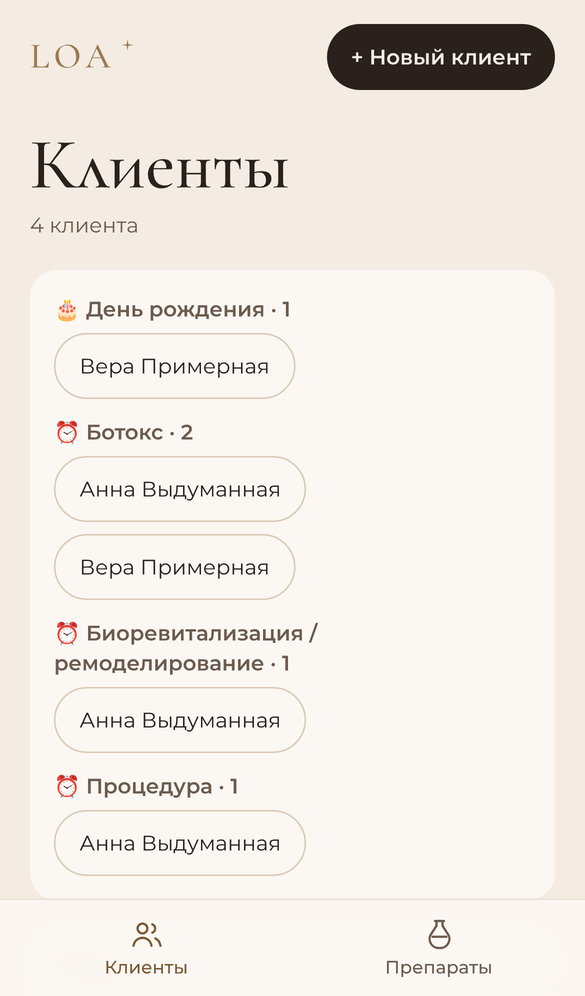
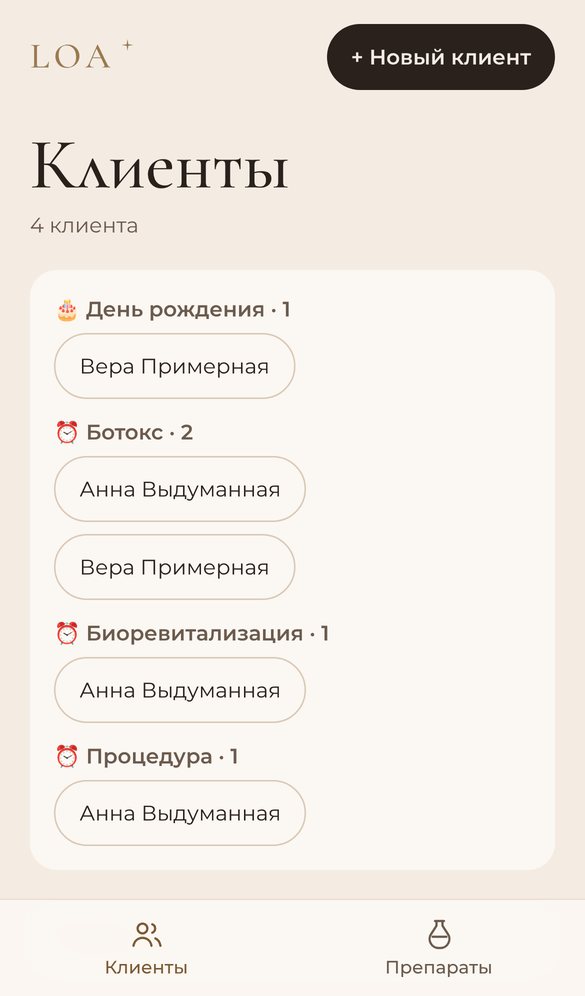
N7 ✏: tilpasset den godkjente brukerhistorien
- korte navn for standardtypene (reminders.short: Ботокс, Филлеры,
  Биоревитализация, Биорепарация, Мезотерапия, Экзосомы, Пилинг, Чистка, PRP,
  Коллагеностимуляция), egne typer med eget navn, «Процедура» uten preparater
- raden i listen uendret («⏰ Пора на процедуру») – typene bare øverst
- kortet: «⏰ <behandling>» og «с <dato>» per påminnelse, hver med egen «Готово»
- roadmap og brukerhistorier med teksten som ble godkjent 05.11.2026

Claude-Session: https://claude.ai/code/session_01HwV16RJ8YLdHMtQXiDegRK

Changed region(s): [[0.0923, 0.6536, 0.5231, 0.8715], [0.5231, 0.6225, 0.5846, 0.6536]]

diff --git a/src/app/components/reminderType.test.ts b/src/app/components/reminderType.test.ts
@@ -1,19 +1,34 @@
 import { describe, expect, it } from "vitest";
-import { reminderTypeLabel, reminderTypesText } from "./reminderType";
+import ru from "../../../messages/ru.json";
+import uk from "../../../messages/uk.json";
+import pl from "../../../messages/pl.json";
+import en from "../../../messages/en.json";
+import { reminderTypeLabel, reminderTypesText, shortTypeCodes } from "./reminderType";
 
-const t = (key: "botox" | "procedure") => ({ botox: "Ботокс", procedure: "Процедура" })[key];
+const short = ru.reminders.short as Record<string, string>;
+const t = (key: string) => (key === "procedure" ? "Процедура" : short[key.replace("short.", "")]);
 const botox = { id: "t1", code: "BT-01", name: { ru: "Ботулинотерапия" } };
-const bio = { id: "t3", code: "BT-03", name: { ru: "Биоревитализация / ремоделирование", pl: "Biorewitalizacja / remodelowanie" } };
+const bio = { id: "t3", code: "BT-03", name: { ru: "Биоревитализация / ремоделирование" } };
+const own = { id: "t9", code: null, name: { ru: "Авторская маска", pl: "Maska autorska" } };
 
-describe("N7 ✏: название процедуры в «⏰ Пора»", () => {
-  it("N7 ✏: «Ботокс» for botulinum therapy, the type's name otherwise, «Процедура» without preparations", () => {
+describe("N7 ✏: короткие названия процедур в «⏰ Пора»", () => {
+  it("N7 ✏: short names for the standard types, the own name for own types, «Процедура» without preparations", () => {
     expect(reminderTypeLabel(t, botox, "ru")).toBe("Ботокс");
-    expect(reminderTypeLabel(t, bio, "pl")).toBe("Biorewitalizacja / remodelowanie");
+    expect(reminderTypeLabel(t, bio, "ru")).toBe("Биоревитализация");
+    expect(reminderTypeLabel(t, own, "pl")).toBe("Maska autorska");
     expect(reminderTypeLabel(t, null, "ru")).toBe("Процедура");
   });
 
-  it("N7 ✏: the row names every procedure that is due, each once", () => {
+  it("N7 ✏: the approved Russian short names, and every language has all ten", () => {
+    expect(shortTypeCodes.map((c) => short[c])).toEqual([
+      "Ботокс", "Филлеры", "Биоревитализация", "Биорепарация", "Мезотерапия", "Экзосомы", "Пилинг", "Чистка", "PRP", "Коллагеностимуляция",
+    ]);
+    for (const m of [uk, pl, en]) expect(Object.keys(m.reminders.short).sort()).toEqual([...shortTypeCodes].sort());
+  });
+
+  it("N7 ✏: a reminder's procedures, each once", () => {
     const r = (types: (typeof botox)[]) => ({ visitId: "v", remindOn: "2026-11-01", types });
-    expect(reminderTypesText(t, [r([botox, bio]), r([botox]), r([])], "ru")).toBe("Ботокс, Биоревитализация / ремоделирование, Процедура");
+    expect(reminderTypesText(t, [r([botox, bio, botox])], "ru")).toBe("Ботокс, Биоревитализация");
+    expect(reminderTypesText(t, [r([])], "ru")).toBe("Процедура");
   });
 });

diff --git a/src/app/(app)/clients/ClientList.tsx b/src/app/(app)/clients/ClientList.tsx
@@ -8,7 +8,7 @@ import { elapsedText } from "@/app/components/elapsed";
 import { card, pill, ui } from "@/app/components/ui";
 import { thumbUrl } from "@/logic/rules/thumbnails";
 import { dueByType } from "@/logic/rules/reminders";
-import { reminderTypeLabel, reminderTypesText } from "@/app/components/reminderType";
+import { reminderTypeLabel } from "@/app/components/reminderType";
 import type { Locale } from "@/config/locales";
 import { directions, type Direction } from "@/logic/course";
 import { matchesFilter, toggleFilter } from "@/logic/rules/courses";
@@ -28,7 +28,7 @@ export function ClientList({ clients, pictureUrls = {} }: { clients: ClientSumma
     .filter((g) => g.clients.length > 0);
   // N7 ✏: «⏰ Ботокс · 2», «⏰ Биоревитализация · 1» – reminders that have come, by procedure type, until «Готово».
   const due = dueByType(clients);
-  const rt = (key: "botox" | "procedure") => t(`reminders.${key}`);
+  const rt = (key: string) => t(`reminders.${key}`);
   // BD1: birthdays today.
   const birthdays = clients.filter((c) => c.birthday);
 
@@ -136,9 +136,8 @@ export function ClientList({ clients, pictureUrls = {} }: { clients: ClientSumma
                 {/* BD1: birthday today. */}
                 {c.birthday && <span className="text-sm font-semibold text-ink">{t("birthday.row")}</span>}
                 {/* N7: time for the next procedure. */}
-                {c.dueReminders.length > 0 && (
-                  <span className="text-sm font-semibold text-ink">{t("reminders.dueRow", { types: reminderTypesText(rt, c.dueReminders, locale) })}</span>
-                )}
+                {/* N7: the row stays as before – the procedures are in the summary at the top. */}
+                {c.dueReminders.length > 0 && <span className="text-sm font-semibold text-ink">{t("reminders.dueRow")}</span>}
                 {/* VP2: the next appointment. */}
                 {c.nextVisitDate && (
                   <span className="text-sm font-medium text-accent">{t("clients.nextVisit", { date: formatDayMonth(c.nextVisitDate) })}</span>

diff --git a/src/app/components/reminderType.ts b/src/app/components/reminderType.ts
@@ -1,18 +1,21 @@
 import type { Locale } from "@/config/locales";
 import { localized } from "@/logic/rules/catalog-settings";
-import { botoxTypeCode } from "@/logic/rules/botox";
 import type { OpenReminder, ReminderType } from "@/logic/rules/reminders";
 import { uniqueTypes } from "@/logic/rules/reminders";
 
-type Translate = (key: "botox" | "procedure") => string;
+/** N7 ✏: short names for the standard types (approved 05.11.2026) – «Ботокс», «Биоревитализация», «Пилинг»… */
+export const shortTypeCodes = ["BT-01", "BT-02", "BT-03", "BT-04", "BT-05", "BT-06", "BT-07", "BT-08", "BT-09", "BT-10"] as const;
 
-/** N7 ✏: «Ботокс» (Loya's word for BT-01), otherwise the type's name; «Процедура» when the visit had no preparations. */
+type Translate = (key: string) => string;
+
+/** N7 ✏: the short name of a standard type, the doctor's own name for her own types, «Процедура» without preparations. */
 export function reminderTypeLabel(t: Translate, type: ReminderType | null, locale: Locale): string {
   if (!type) return t("procedure");
-  return type.code === botoxTypeCode ? t("botox") : localized(type.name, locale) || t("procedure");
+  if (type.code && (shortTypeCodes as readonly string[]).includes(type.code)) return t(`short.${type.code}`);
+  return localized(type.name, locale) || t("procedure");
 }
 
-/** N7 ✏: «Ботокс, Биоревитализация / ремоделирование» – the types of the reminders that have come. */
+/** N7 ✏: «Ботокс, Биоревитализация» – the procedures of the given reminders, each once. */
 export function reminderTypesText(t: Translate, reminders: readonly OpenReminder[], locale: Locale): string {
   const labels = uniqueTypes(reminders.flatMap((r) => r.types)).map((x) => reminderTypeLabel(t, x, locale));
   // A visit without preparations is «Процедура» – listed after the named types.

diff --git a/src/app/(app)/clients/[id]/ClientCardView.tsx b/src/app/(app)/clients/[id]/ClientCardView.tsx
@@ -345,7 +345,7 @@ export async function ClientCardView(props: Props) {
                 <p className="text-base font-semibold text-ink">
                   {t("reminders.due", { types: reminderTypesText((key) => t(`reminders.${key}`), [r], locale as Locale) })}
                 </p>
-                <p className="text-sm text-muted">{t("reminders.dueSince", { date: formatIsoDate(r.remindOn) })}</p>
+                <p className="text-sm text-muted">{t("reminders.since", { date: formatIsoDate(r.remindOn) })}</p>
               </div>
               <ReminderDone clientId={id} visitId={r.visitId} />
             </div>

diff --git a/CLAUDE.md b/CLAUDE.md
@@ -91,7 +91,7 @@ Regler:
 - `visits.face_scheme` – jsonb `{template: 'front-photo-v1'|'front', strokes: [{color: 'dark'|'red'|'blue', width, points: [[x,y], …]}]}`, koordinater 0–1 i forhold til malens bilde/boks (Z5, migrering `20261101000000_face_scheme.sql`). `front-photo-v1` = realistisk ansikt (2:3), brukes for alle nye skjemaer; `front` = gammel strektegning (3:4), kun visning; ukjent/manglende ID = `front`. `null` = ingen skjema; et tomt skjema lagres ikke. «Повторить прошлый визит» tar med skjemaet på sin egen mal.
 - `client_photos` – id, `doctor_id`, `client_id`, `course_id` (valgfri: bildet hører til kuren), `taken_on` (opptaksdato), `storage_path`, `created_at` (FK1–FK4; migrering `20261103000000_client_photos.sql`). Filene i `visit-photos` under `<doctor_id>/client-photos/<client_id>/<fil>.jpg`. Radene er med i snapshot, filene ikke.
 - `clients.main_photo_id` – «Главное фото» (FK6, migrering `20261105000000_main_photo.sql`); `null` = initialer. Fremmednøkkel `clients_main_photo_fkey` (`main_photo_id, id` → `client_photos (id, client_id)`, `on delete set null`, `deferrable initially deferred`) – bildet må være klientens eget, og slettes bildet, blir valget tomt. **Embed fra `clients` til `client_photos` må derfor ha hint** (`client_photos!client_photos_client_id_doctor_id_fkey(...)` for alle bildene, `client_photos!clients_main_photo_fkey(...)` for hovedbildet), ellers svarer PostgREST PGRST201.
-- `visits.remind_on` / `visits.reminder_done_at` – «Напомнить через» (N7, migrering `20261106000000_visit_reminder.sql`): dagen «⏰ Пора» begynner (`null` = ingen), og når «Готово» ble trykket (`null` = åpen). **N7 ✏ (Loya 05.11.2026):** påminnelsen viser behandlingstypen fra besøket (`OpenReminder.types`, «Ботокс» for BT-01, ellers typens navn, «Процедура» uten preparater, `reminderTypeLabel`); øverst i listen gruppert per type (`dueByType`), og «Готово» i kortet lukker **én** påminnelse (ett besøk, `markReminderDone`). Endres datoen, åpnes påminnelsen igjen (`keptReminderDone`). «Повторить прошлый визит» tar ikke med påminnelsen. Regler i `src/logic/rules/reminders.ts` (`reminderDate`, `parseReminder`, `reminderChoiceFor`, `reminderStatus`).
+- `visits.remind_on` / `visits.reminder_done_at` – «Напомнить через» (N7, migrering `20261106000000_visit_reminder.sql`): dagen «⏰ Пора» begynner (`null` = ingen), og når «Готово» ble trykket (`null` = åpen). **N7 ✏ (Loya 05.11.2026):** behandlingstypen fra besøket (`OpenReminder.types`) vises **bare øverst i listen** (gruppert per type, `dueByType`) og **i kortet** ved hver «Готово»; raden i listen er uendret. Korte navn for BT-01…BT-10 i `messages/*.json` → `reminders.short` (Ботокс, Филлеры, Биоревитализация …), egne typer med eget navn, «Процедура» uten preparater (`reminderTypeLabel`). «Готово» lukker **én** påminnelse (ett besøk, `markReminderDone`). Endres datoen, åpnes påminnelsen igjen (`keptReminderDone`). «Повторить прошлый визит» tar ikke med påminnelsen. Regler i `src/logic/rules/reminders.ts` (`reminderDate`, `parseReminder`, `reminderChoiceFor`, `reminderStatus`).
 - `visit_items` – id, `doctor_id`, `visit_id`, `preparation_id` (nullable), `preparation_name` og `procedure_type_id` (kopier på besøkstidspunktet, P9), `quantity` (fritekst), `sort_order`
 - `visit_photos` – id, `doctor_id`, `visit_id`, `storage_path`, `sort_order`; maks 3 per besøk (trigger + app). Filene ligger i den private Storage-bøtten `visit-photos` under `<doctor_id>/<visit_id>/<fil>.jpg` (eier + aal2). Filene er **ikke** med i `backup.take_snapshot` – se `docs/BACKUP.md` punkt 8.
 
@@ -183,10 +183,10 @@ Hvert felt: fritekst er alltid tillatt (også «?» for usikkerhet). Hurtigvalg 
 - Felt har radius **14 px**, kort radius **18 px**. Felles klasser i `src/app/components/ui.ts`.
 - Datoer `DD.MM.YYYY`.
 - **Innlogging:** stor «LOA» i gull serif med liten firkantet stjerne over og tynn bue under, «AESTHETIC MEDICINE» med bred bokstavavstand, linje med stjerne, «SCIENCE · BEAUTY · CONFIDENCE» (`BrandHero`). Skjema i kort under.
-- **Klientliste** (som Apple Notater): liten «LOA» øverst til venstre, «+ Новый клиент» til høyre, stor serif-overskrift «Клиенты» med antall under, **søk rett under overskriften**. Nederst «Резервная копия» med «⬇ Скачать архив» (EX1 del 2), over «Удалённые клиенты», språk og «Выйти». Under søket to filterpiller «Косметология» / «Дерматология» (DM1): trykk velger, trykk igjen fjerner, ingen valgt = alle. Over søket: **«🎂 День рождения · N»** (BD1, bare på selve dagen, bare med `birth_date`, `isBirthday`), **«⏰ Ботокс · N»**, «⏰ Биоревитализация … · N» (N7, påminnelser som har kommet, gruppert per behandlingstype) og **«Сегодня · N» / «Завтра · N»** med navnepiller til kortet (N13 delvis, `agendaDay`), bare når det finnes noen. Listen i ett kort; hver rad: rundt bilde av klienten (eller initialer), navn (fet), dato · alder, «💉 Ботокс · 1 мес. 2 нед.» (BO1: tid siden siste gjennomførte besøk med type BT-01, `botoxSince`/`timeSince`), «🎂 День рождения сегодня» (BD1), «⏰ Пора: Ботокс» (N7, typene som har kommet), «Запись: 31.10», «🩺 На лечении · N дн.» / «Курс закончился», utdrag; til høyre landskode, ✨/🩺 og eventuelt rød «Аллергия».
+- **Klientliste** (som Apple Notater): liten «LOA» øverst til venstre, «+ Новый клиент» til høyre, stor serif-overskrift «Клиенты» med antall under, **søk rett under overskriften**. Nederst «Резервная копия» med «⬇ Скачать архив» (EX1 del 2), over «Удалённые клиенты», språk og «Выйти». Under søket to filterpiller «Косметология» / «Дерматология» (DM1): trykk velger, trykk igjen fjerner, ingen valgt = alle. Over søket: **«🎂 День рождения · N»** (BD1, bare på selve dagen, bare med `birth_date`, `isBirthday`), **«⏰ Ботокс · N»**, «⏰ Биоревитализация … · N» (N7, påminnelser som har kommet, gruppert per behandlingstype) og **«Сегодня · N» / «Завтра · N»** med navnepiller til kortet (N13 delvis, `agendaDay`), bare når det finnes noen. Listen i ett kort; hver rad: rundt bilde av klienten (eller initialer), navn (fet), dato · alder, «💉 Ботокс · 1 мес. 2 нед.» (BO1: tid siden siste gjennomførte besøk med type BT-01, `botoxSince`/`timeSince`), «🎂 День рождения сегодня» (BD1), «⏰ Пора на процедуру» (N7), «Запись: 31.10», «🩺 На лечении · N дн.» / «Курс закончился», utdrag; til høyre landskode, ✨/🩺 og eventuelt rød «Аллергия».
 - **Препараты** (katalogen, URL `/catalog`): liten «LOA» og «+ Препарат» øverst, serif-overskrift «Препараты», søk i preparater, typene i ett kort.
 - **Klientkort – rekkefølge** (Loya 26.10.2026: «план процедур и визиты должны быть первыми»):
-  1. **Toppen:** liten «КАРТА КЛИЕНТА» over navnet (serif), under: alder · første besøk, «🎂 Сегодня день рождения · N лет» (BD1, bare på dagen), «💉 Ботокс · …» (BO1), landskode + land, by, telefon med «Позвонить», «WhatsApp», «Telegram», «Viber» (KT1). **Allergivarsel (AL2)** rett under, avrundet boks med varseltrekant. **«⏰ Пора: <type>»** (N7) per påminnelse som har kommet, hver med egen «Готово»; ellers «⏰ Напомнить: <dato>» øverst.
+  1. **Toppen:** liten «КАРТА КЛИЕНТА» over navnet (serif), under: alder · første besøk, «🎂 Сегодня день рождения · N лет» (BD1, bare på dagen), «💉 Ботокс · …» (BO1), landskode + land, by, telefon med «Позвонить», «WhatsApp», «Telegram», «Viber» (KT1). **Allergivarsel (AL2)** rett under, avrundet boks med varseltrekant. **«⏰ <behandling> · с <dato>»** (N7) per påminnelse som har kommet, hver med egen «Готово»; ellers «⏰ Напомнить: <dato>» øverst.
   0. **Snarveier** rett under toppen: piller «Визиты · Фото клиента · План процедур · Лечение · Уход · Документы и анализы · Заметки · Анкета» som hopper til seksjonen (ankre `#visits`, `#client-photos`, `#plan`, `#treatment`, `#care`, `#documents`, `#notes`, `#anketa`).
   1b. **«Последний визит»** (H1) – siste gjennomførte besøk: dato, «N дней назад», preparater med mengde, 📷/skisse, notater (2 linjer), «↺ Повторить прошлый визит».
   2. **«Предстоящие визиты»** – planlagte besøk (VP2), bare når det finnes noen; «Дополнить визит» når klienten kommer.

diff --git a/roadmap_ru.md b/roadmap_ru.md
@@ -278,7 +278,7 @@
 | N2 | Как врач, я хочу видеть клиентов, у которых срок прошёл или приближается, чтобы связаться с ними, потому что это даёт лучший результат и больше постоянных клиентов. |
 | N5 🆕 | Как врач, я хочу отмечать, что с клиентом связались или наблюдение завершено, чтобы в обзоре было только то, что требует действий, потому что иначе список переполняется. |
 | N6 🆕 | «Давно не была»: клиенты, у которых последний визит был больше N месяцев назад (по умолчанию 6, можно изменить), с датой последнего визита и последней процедурой. Считается по записанным визитам, работает без MVP 2. |
-| ✅ N7 ✏ | «Напомнить через» в визите: 2 нед., 3 нед., 1, 3, 4, 6 мес. или своя дата (от даты визита). С этого дня клиент в списке с «⏰ Пора» (вверху и в строке) и в карте, пока врач не нажмёт «Готово». Только в приложении, не в календаре телефона. *(Готово 02.11.2026 по просьбе врача.)* *(05.11.2026 по просьбе врача: вверху списка «⏰ Пора» **по типу процедуры** – «⏰ Ботокс · 2» с именами, «⏰ Биоревитализация · 1» …; в строке «⏰ Пора: Ботокс»; в карте у каждого напоминания своё «Готово». Для всех процедур.)* |
+| ✅ N7 ✏ | «Напомнить через» в визите: 2 нед., 3 нед., 1, 3, 4, 6 мес. или своя дата (от даты визита). С этого дня клиент в списке с «⏰ Пора» (вверху и в строке) и в карте, пока врач не нажмёт «Готово». Только в приложении, не в календаре телефона. *(Готово 02.11.2026 по просьбе врача.)* ✏ *(05.11.2026, согласовано с врачом:* как врач, я хочу **вверху списка клиентов** видеть «⏰ Пора» **по типу процедуры** («⏰ Ботокс · 2» – имена, «⏰ Биоревитализация · 1» – имена), чтобы сразу понимать, у кого какая процедура, не заходя в каждую карту, потому что напоминаний может быть много и процедуры разные. В **карте клиента** у каждого напоминания указана процедура и своё **«Готово»**. *Для всех процедур. Короткие названия: Ботокс, Филлеры, Биоревитализация, Биорепарация, Мезотерапия, Экзосомы, Пилинг, Чистка, PRP, Коллагеностимуляция; свои типы – своё название; визит без препаратов – «Процедура». Одно напоминание на визит: если в визите две процедуры, клиент виден в обеих группах, «Готово» одно. В строке клиента в списке – без изменений.)* |
 | N8 🆕 | Срок «Пригласить через» предлагается по типу процедуры (упрощённая версия P3/P11). |
 | N9 🆕 | Из обзора одним нажатием позвонить или открыть WhatsApp/Telegram/Viber с номером клиента (без ссылки на страницу клиента). |
 | N10 🆕 | Отложить клиента в обзоре («напомнить через неделю/месяц») с короткой заметкой. |

diff --git a/brukerhistorier_loya_ru.md b/brukerhistorier_loya_ru.md
@@ -287,7 +287,7 @@
 
 **N6** – «Давно не была»: клиенты, у которых последний визит был больше N месяцев назад (по умолчанию 6, можно изменить), с датой последнего визита и последней процедурой. Считается по записанным визитам, работает без MVP 2.
 
-✅ **N7** – «Напомнить через» в визите: 2 нед., 3 нед., 1, 3, 4, 6 мес. или своя дата (от даты визита). С этого дня клиент в списке с «⏰ Пора» (вверху и в строке) и в карте, пока врач не нажмёт «Готово». Только в приложении, не в календаре телефона. *(Готово 02.11.2026 по просьбе врача.)* *(05.11.2026 по просьбе врача: вверху списка «⏰ Пора» **по типу процедуры** – «⏰ Ботокс · 2» с именами, «⏰ Биоревитализация · 1» …; в строке «⏰ Пора: Ботокс»; в карте у каждого напоминания своё «Готово». Для всех процедур.)*
+✅ **N7** – «Напомнить через» в визите: 2 нед., 3 нед., 1, 3, 4, 6 мес. или своя дата (от даты визита). С этого дня клиент в списке с «⏰ Пора» (вверху и в строке) и в карте, пока врач не нажмёт «Готово». Только в приложении, не в календаре телефона. *(Готово 02.11.2026 по просьбе врача.)* ✏ *(05.11.2026, согласовано с врачом:* как врач, я хочу **вверху списка клиентов** видеть «⏰ Пора» **по типу процедуры** («⏰ Ботокс · 2» – имена, «⏰ Биоревитализация · 1» – имена), чтобы сразу понимать, у кого какая процедура, не заходя в каждую карту, потому что напоминаний может быть много и процедуры разные. В **карте клиента** у каждого напоминания указана процедура и своё **«Готово»**. *Для всех процедур. Короткие названия: Ботокс, Филлеры, Биоревитализация, Биорепарация, Мезотерапия, Экзосомы, Пилинг, Чистка, PRP, Коллагеностимуляция; свои типы – своё название; визит без препаратов – «Процедура». Одно напоминание на визит: если в визите две процедуры, клиент виден в обеих группах, «Готово» одно. В строке клиента в списке – без изменений.)*
 
 **N8** – Срок «Пригласить через» предлагается по типу процедуры (упрощённая версия P3/P11).
 
